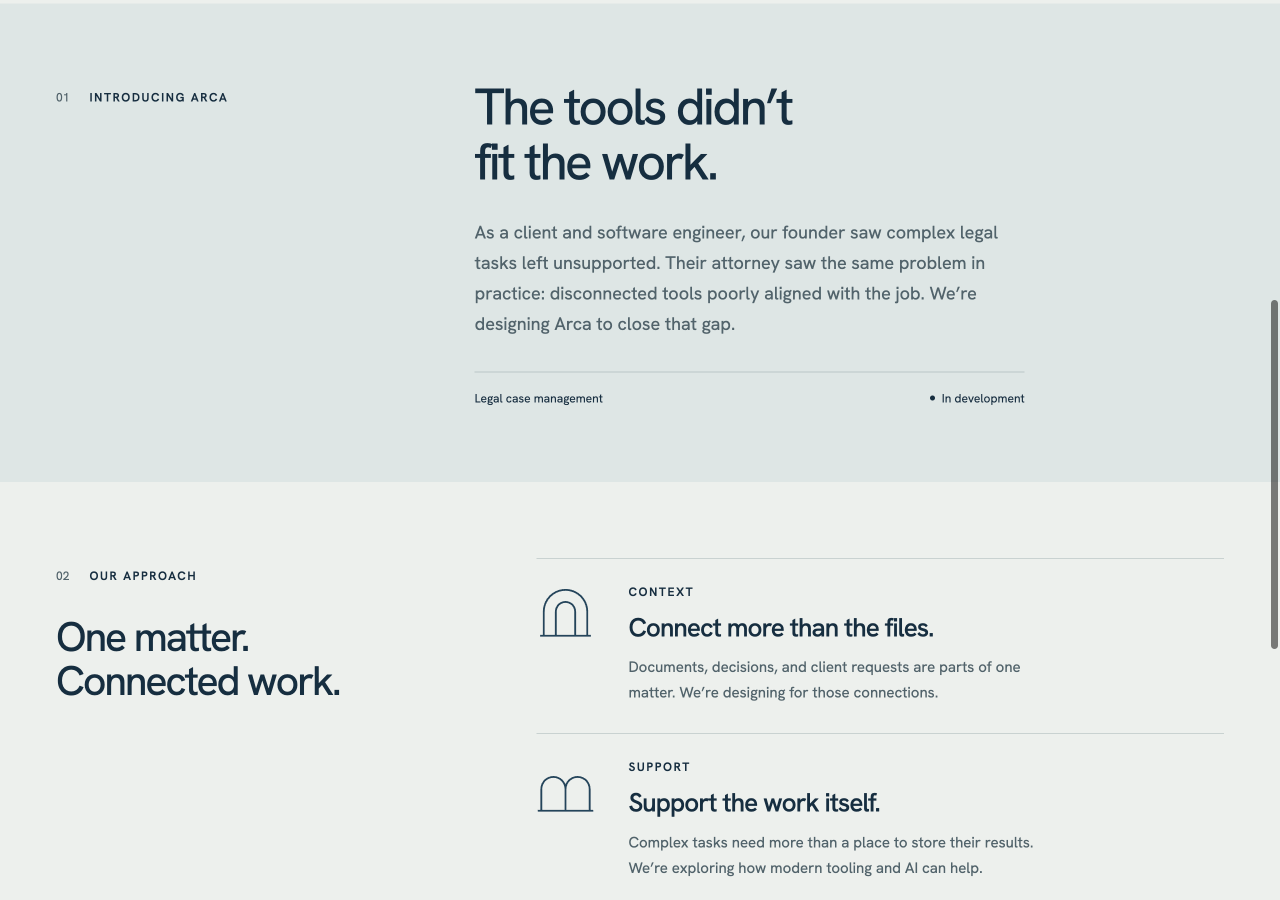
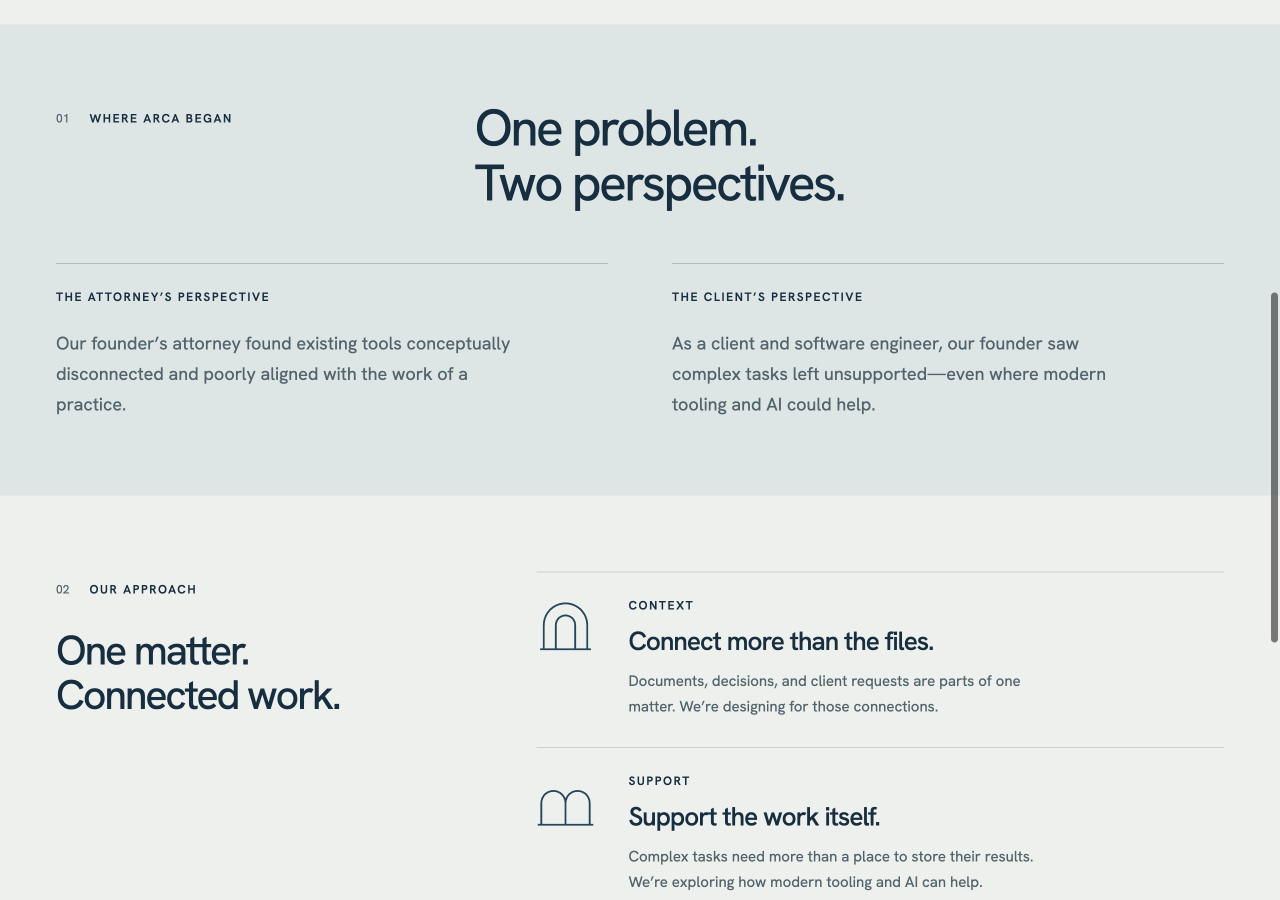
Distinguish founding perspectives and refine mobile hierarchy

diff --git a/styles.css b/styles.css
@@ -215,11 +215,6 @@ h1 {
   padding: 76px 0;
   scroll-margin-top: 24px;
 }
-.product-grid {
-  display: grid;
-  grid-template-columns: 1fr 2fr;
-  gap: 44px;
-}
 .section-label {
   display: flex;
   align-items: start;
@@ -237,23 +232,6 @@ h2 {
   font-weight: 450;
   letter-spacing: -0.05em;
   line-height: 1.08;
-}
-.product-copy > p {
-  max-width: 550px;
-  font-size: 18px;
-  line-height: 1.7;
-  color: var(--muted);
-  margin-top: 27px;
-}
-.product-meta {
-  display: flex;
-  justify-content: space-between;
-  gap: 20px;
-  max-width: 550px;
-  border-top: 1px solid #b9c6c7;
-  margin-top: 32px;
-  padding-top: 18px;
-  font-size: 12px;
 }
 .approach {
   scroll-margin-top: 24px;
@@ -395,8 +373,7 @@ h3 {
   .hero-art {
     padding: 22px;
   }
-  .approach-heading,
-  .product-grid {
+  .approach-heading {
     grid-template-columns: 1fr 2fr;
     gap: 30px;
   }
@@ -484,8 +461,7 @@ h3 {
   .product {
     padding: 43px 0;
   }
-  .approach-heading,
-  .product-grid {
+  .approach-heading {
     grid-template-columns: 1fr;
     gap: 28px;
   }
@@ -495,14 +471,6 @@ h3 {
   }
   h2 {
     font-size: 39px;
-  }
-  .product-copy > p {
-    font-size: 16px;
-    margin-top: 22px;
-  }
-  .product-meta {
-    font-size: 12px;
-    margin-top: 25px;
   }
   .approach {
     padding-block: 43px 33px;
@@ -587,9 +555,6 @@ h3 {
   }
   .closing-grid {
     gap: 20px;
-  }
-  .product-meta {
-    gap: 10px;
   }
   .footer {
     gap: 16px;
@@ -901,4 +866,97 @@ h3 {
   .audience-rest {
     display: block;
   }
+}
+
+/* The founding insight is a paired perspective, not a feature grid. */
+.origin-heading {
+  display: grid;
+  grid-template-columns: 1fr 2fr;
+  gap: 44px;
+}
+.perspectives {
+  display: grid;
+  grid-template-columns: 1fr 1fr;
+  gap: 64px;
+  margin-top: 52px;
+}
+.perspective {
+  border-top: 1px solid #acbcbe;
+  padding-top: 24px;
+}
+.perspective-label {
+  display: flex;
+  align-items: center;
+  gap: 18px;
+}
+.perspective > p:last-child {
+  max-width: 440px;
+  font-size: 16px;
+  line-height: 1.7;
+  color: var(--muted);
+}
+@media (max-width: 1100px) {
+  .origin-heading {
+    gap: 30px;
+  }
+  .perspectives {
+    gap: 36px;
+  }
+}
+@media (max-width: 760px) {
+  .origin-heading {
+    display: block;
+  }
+  .origin-heading h2 {
+    margin-top: 28px;
+    font-size: 36px;
+  }
+  .perspectives {
+    display: block;
+    margin-top: 32px;
+  }
+  .perspective {
+    padding-top: 22px;
+  }
+  .perspective + .perspective {
+    margin-top: 28px;
+  }
+  .perspective > p:last-child {
+    font-size: 15px;
+  }
+}
+
+.perspective > p:last-child {
+  margin-top: 22px;
+  font-size: 18px;
+  max-width: 480px;
+}
+@media (max-width: 760px) {
+  .origin-heading h2 {
+    font-size: 36px;
+  }
+  .perspectives {
+    margin-top: 28px;
+  }
+  .perspective > p:last-child {
+    margin-top: 14px;
+    font-size: 16px;
+  }
+  .perspective + .perspective {
+    margin-top: 24px;
+  }
+}
+
+@media (max-width: 760px) {
+  h1 {
+    font-size: clamp(39px, 12.2vw, 68px);
+  }
+}
+
+.perspective-label h3 {
+  margin: 0;
+  font-size: 12px;
+  font-weight: 600;
+  line-height: 1.5;
+  letter-spacing: 1.6px;
 }

diff --git a/index.html b/index.html
@@ -98,25 +98,33 @@
         </figure>
       </section>
       <section class="product" id="arca" aria-labelledby="arca-title">
-        <div class="wrap product-grid">
-          <div class="section-label">
-            <span class="index">01</span>
-            <p class="eyebrow">Introducing Arca</p>
-          </div>
-          <div class="product-copy">
-            <h2 id="arca-title">The tools didn’t<br />fit the work.</h2>
-            <p>
-              As a client and software engineer, our founder saw complex legal
-              tasks left unsupported. Their attorney saw the same problem in
-              practice: disconnected tools poorly aligned with the job. We’re
-              designing Arca to close that gap.
-            </p>
-            <div class="product-meta">
-              <span>Legal case management</span
-              ><span class="status"
-                ><i aria-hidden="true"></i> In development</span
-              >
+        <div class="wrap origin">
+          <div class="origin-heading">
+            <div class="section-label">
+              <span class="index">01</span>
+              <p class="eyebrow">Where Arca began</p>
             </div>
+            <h2 id="arca-title">One problem.<br />Two perspectives.</h2>
+          </div>
+          <div class="perspectives">
+            <article class="perspective">
+              <div class="perspective-label">
+                <h3 class="eyebrow">The attorney’s perspective</h3>
+              </div>
+              <p>
+                Our founder’s attorney found existing tools conceptually
+                disconnected and poorly aligned with the work of a practice.
+              </p>
+            </article>
+            <article class="perspective">
+              <div class="perspective-label">
+                <h3 class="eyebrow">The client’s perspective</h3>
+              </div>
+              <p>
+                As a client and software engineer, our founder saw complex tasks
+                left unsupported—even where modern tooling and AI could help.
+              </p>
+            </article>
           </div>
         </div>
       </section>

diff --git a/docs/ui-polish/README.md b/docs/ui-polish/README.md
@@ -14,7 +14,7 @@ can be reviewed at a readable scale.
 - Browser overflow checks at 320, 390, 768, 1280, and 1920 CSS pixels: no horizontal overflow.
 - Actual link activation: Discover Arca → `#arca`; Approach → `#approach`; Back to top → `#top`.
 - Keyboard: initial Tab reveals the skip link with a visible outline; Enter navigates to `#main`; next Tab reaches the main CTA, bypassing header navigation.
-- axe-core 4.10.3, WCAG A/AA/2.1 AA and best-practice rules: zero violations, 36 passing rules. Two symbol-only arrow contrast checks required manual review; their foreground/background ratio is 12.18:1.
+- axe-core 4.14.0, WCAG A/AA/2.1 AA and best-practice rules: zero violations, 35 passing rules. Two symbol-only arrow contrast checks required manual review; their foreground/background ratio is 12.18:1.
 - Text color pairings: 4.96:1 minimum among the primary and muted text combinations. This is targeted contrast verification, not a claim of complete accessibility certification.
 - All local assets and fragment destinations exist; IDs are unique.
 - Formatting and `git diff --check` pass.
@@ -34,7 +34,13 @@ their final rubrics while retaining independent ratings.
 | -------- | ----------- | ------------------------------------------------------------------------------------- |
 | UX       | 9.0 / 10    | Excellent clarity, reading hierarchy, and prelaunch framing.                          |
 | Visual   | 8.9 / 10    | Strong composition and identity; originality is strong rather than category-defining. |
-| Brand    | 8.5 / 10    | Polished and recognizable; more weight reserved for exceptional, ownable expression.  |
+| Brand    | 8.6 / 10    | Polished and recognizable; more weight reserved for exceptional, ownable expression.  |
+
+The latest retained refinement separates the attorney and client/software-engineer
+perspectives into a compact paired origin section and strengthens the mobile
+headline. A paired-arch company-mark experiment was rejected; the solid mark
+remains. Retired experiment styles were removed without changing computed styles
+at the five checked viewport widths.
 
 All three recommend shipping and report no material visible issue. Their
 remaining differences concern subjective weighting of distinctiveness, not an

diff --git a/README.md b/README.md
@@ -11,7 +11,7 @@ Ink blue, mineral gray and pale chartreuse; self-hosted Hanken Grotesk typograph
 (font license in `assets/`). The custom arch illustration and related principle
 symbols express a common ground for counsel and clients. They are conceptual
 artwork, not a product screenshot or final logo. The page has three numbered
-sections: the product, our approach, and development status.
+sections: the founding perspectives, our approach, and development status.
 
 Company: **Statera Labs**. Product: **Arca**. Lead line: **The work goes beyond the files.** Positioning: legal case management for small practices, designed
 around counsel and clients. The copy hints at intent without promising planned
